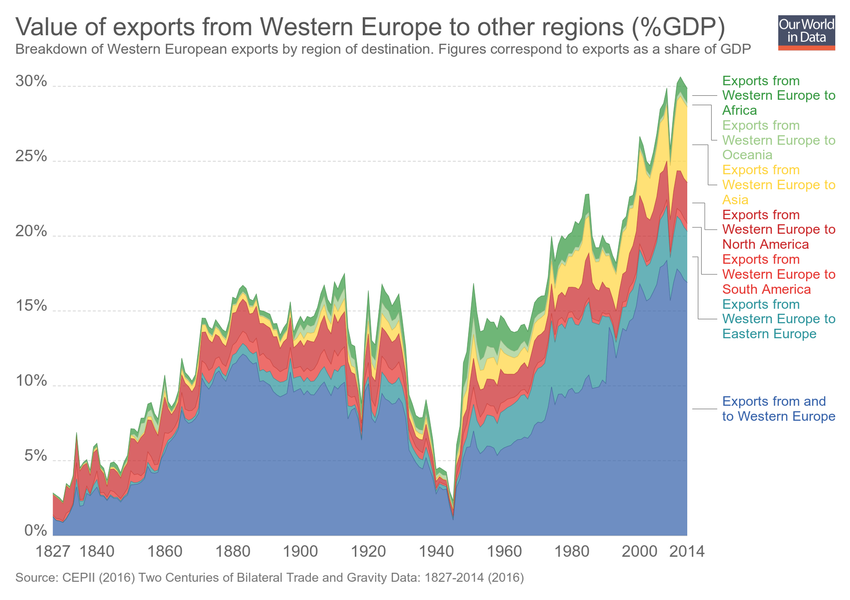
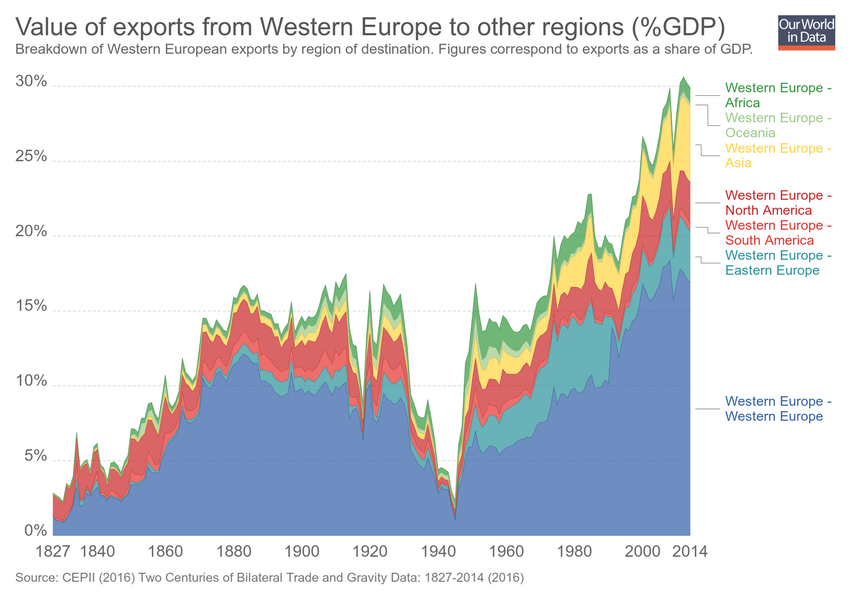
Updating chart exports-from-western-europe-to-other-regions

diff --git a/grapher/exports-from-western-europe-to-other-regions.html b/grapher/exports-from-western-europe-to-other-regions.html
@@ -1,4 +1,4 @@
-<!doctype html><html><head><meta name="viewport" content="width=device-width, initial-scale=1" /><title>Value of exports from Western Europe to other regions (%GDP) - Our World in Data</title><meta name="description" content="Breakdown of Western European exports by region of destination. Figures correspond to exports as a share of GDP" /><link rel="canonical" href="https://ourworldindata.org/grapher/exports-from-western-europe-to-other-regions" /><meta property="fb:app_id" content="1149943818390250" /><meta property="og:url" content="https://ourworldindata.org/grapher/exports-from-western-europe-to-other-regions" /><meta property="og:title" content="Value of exports from Western Europe to other regions (%GDP)" /><meta property="og:description" content="Breakdown of Western European exports by region of destination. Figures correspond to exports as a share of GDP" /><meta property="og:image" content="https://ourworldindata.org/grapher/exports/exports-from-western-europe-to-other-regions.png?v=4" /><meta property="og:image:width" content="850" /><meta property="og:image:height" content="600" /><meta property="og:site_name" content="Our World in Data" /><meta name="twitter:card" content="summary_large_image" /><meta name="twitter:site" content="@OurWorldInData" /><meta name="twitter:creator" content="@OurWorldInData" /><meta name="twitter:title" content="Value of exports from Western Europe to other regions (%GDP)" /><meta name="twitter:description" content="Breakdown of Western European exports by region of destination. Figures correspond to exports as a share of GDP" /><meta name="twitter:image" content="https://ourworldindata.org/grapher/exports/exports-from-western-europe-to-other-regions.png?v=4" /><style>
+<!doctype html><html><head><meta name="viewport" content="width=device-width, initial-scale=1" /><title>Value of exports from Western Europe to other regions (%GDP) - Our World in Data</title><meta name="description" content="Breakdown of Western European exports by region of destination. Figures correspond to exports as a share of GDP." /><link rel="canonical" href="https://ourworldindata.org/grapher/exports-from-western-europe-to-other-regions" /><meta property="fb:app_id" content="1149943818390250" /><meta property="og:url" content="https://ourworldindata.org/grapher/exports-from-western-europe-to-other-regions" /><meta property="og:title" content="Value of exports from Western Europe to other regions (%GDP)" /><meta property="og:description" content="Breakdown of Western European exports by region of destination. Figures correspond to exports as a share of GDP." /><meta property="og:image" content="https://ourworldindata.org/grapher/exports/exports-from-western-europe-to-other-regions.png?v=5" /><meta property="og:image:width" content="850" /><meta property="og:image:height" content="600" /><meta property="og:site_name" content="Our World in Data" /><meta name="twitter:card" content="summary_large_image" /><meta name="twitter:site" content="@OurWorldInData" /><meta name="twitter:creator" content="@OurWorldInData" /><meta name="twitter:title" content="Value of exports from Western Europe to other regions (%GDP)" /><meta name="twitter:description" content="Breakdown of Western European exports by region of destination. Figures correspond to exports as a share of GDP." /><meta name="twitter:image" content="https://ourworldindata.org/grapher/exports/exports-from-western-europe-to-other-regions.png?v=5" /><style>
         html, body {
             height: 100%;
             margin: 0;
@@ -20,8 +20,8 @@
         }
     </style><noscript><style>
                     figure { display: none !important; }
-                </style></noscript><link rel="stylesheet" href="https://ourworldindata.org/grapher/assets/commons.bundle.521782e703f0fe72f108.css" /><link rel="preload" href="/grapher/data/variables/96417+96410+96416+96413+96412+96415+96411+96414.json?v=4" as="fetch" crossorigin /></head><body class="singleChart"><figure data-grapher-src="/grapher/exports-from-western-europe-to-other-regions"></figure><noscript id="fallback"><img src="/grapher/exports/exports-from-western-europe-to-other-regions.svg" /><p>Interactive visualization requires JavaScript</p></noscript><script src="https://cdn.polyfill.io/v2/polyfill.min.js?features=es6,fetch"></script><script src="https://ourworldindata.org/grapher/assets/commons.bundle.521782e703f0fe72f108.js"></script><script src="https://ourworldindata.org/grapher/assets/charts.bundle.521782e703f0fe72f108.js"></script><script>
-        var jsonConfig = {"id":3130,"map":{"projection":"World","colorSchemeLabels":[],"colorSchemeValues":[],"customNumericColors":[],"customCategoryColors":{},"customCategoryLabels":{},"customHiddenCategories":{}},"tab":"chart","slug":"exports-from-western-europe-to-other-regions","type":"StackedArea","title":"Value of exports from Western Europe to other regions (%GDP)","xAxis":{"scaleType":"linear"},"yAxis":{"min":0,"scaleType":"linear"},"version":4,"subtitle":"Breakdown of Western European exports by region of destination. Figures correspond to exports as a share of GDP","hasMapTab":false,"stackMode":"absolute","dimensions":[{"display":{"name":"Exports from and to Western Europe"},"property":"y","variableId":96417},{"display":{"name":"Exports from Western Europe to Africa"},"property":"y","variableId":96410},{"display":{"name":"Exports from Western Europe to South America"},"property":"y","variableId":96416},{"display":{"name":"Exports from Western Europe to Eastern Europe"},"property":"y","variableId":96413},{"display":{"name":"Exports from Western Europe to Asia"},"property":"y","variableId":96412},{"display":{"name":"Exports from Western Europe to Oceania"},"property":"y","variableId":96415},{"display":{"name":"Exports from Western Europe  to Antarctica"},"property":"y","variableId":96411},{"display":{"name":"Exports from Western Europe to North America"},"property":"y","variableId":96414}],"hasChartTab":true,"isPublished":true,"selectedData":[{"index":1,"entityId":476},{"index":5,"entityId":476},{"index":4,"entityId":476},{"index":7,"entityId":476},{"index":2,"entityId":476},{"index":3,"entityId":476},{"index":0,"entityId":476}],"addCountryMode":"change-country","hideTitleAnnotation":true};
+                </style></noscript><link rel="stylesheet" href="https://ourworldindata.org/grapher/assets/commons.bundle.521782e703f0fe72f108.css" /><link rel="preload" href="/grapher/data/variables/96417+96410+96416+96413+96412+96415+96411+96414.json?v=5" as="fetch" crossorigin /></head><body class="singleChart"><figure data-grapher-src="/grapher/exports-from-western-europe-to-other-regions"></figure><noscript id="fallback"><img src="/grapher/exports/exports-from-western-europe-to-other-regions.svg" /><p>Interactive visualization requires JavaScript</p></noscript><script src="https://cdn.polyfill.io/v2/polyfill.min.js?features=es6,fetch"></script><script src="https://ourworldindata.org/grapher/assets/commons.bundle.521782e703f0fe72f108.js"></script><script src="https://ourworldindata.org/grapher/assets/charts.bundle.521782e703f0fe72f108.js"></script><script>
+        var jsonConfig = {"id":3130,"map":{"projection":"World","colorSchemeLabels":[],"colorSchemeValues":[],"customNumericColors":[],"customCategoryColors":{},"customCategoryLabels":{},"customHiddenCategories":{}},"tab":"chart","slug":"exports-from-western-europe-to-other-regions","type":"StackedArea","title":"Value of exports from Western Europe to other regions (%GDP)","xAxis":{"scaleType":"linear"},"yAxis":{"min":0,"scaleType":"linear"},"version":5,"subtitle":"Breakdown of Western European exports by region of destination. Figures correspond to exports as a share of GDP.","hasMapTab":false,"stackMode":"absolute","dimensions":[{"display":{"name":" Western Europe"},"property":"y","variableId":96417},{"display":{"name":"Africa"},"property":"y","variableId":96410},{"display":{"name":"South America"},"property":"y","variableId":96416},{"display":{"name":"Eastern Europe"},"property":"y","variableId":96413},{"display":{"name":"Asia"},"property":"y","variableId":96412},{"display":{"name":"Oceania"},"property":"y","variableId":96415},{"display":{"name":"Antarctica"},"property":"y","variableId":96411},{"display":{"name":"North America"},"property":"y","variableId":96414}],"hasChartTab":true,"isPublished":true,"selectedData":[{"index":1,"entityId":476},{"index":5,"entityId":476},{"index":4,"entityId":476},{"index":7,"entityId":476},{"index":2,"entityId":476},{"index":3,"entityId":476},{"index":0,"entityId":476}],"addCountryMode":"disabled","hideTitleAnnotation":true};
         var figure = document.getElementsByTagName("figure")[0];
         try {
             window.App = {};
